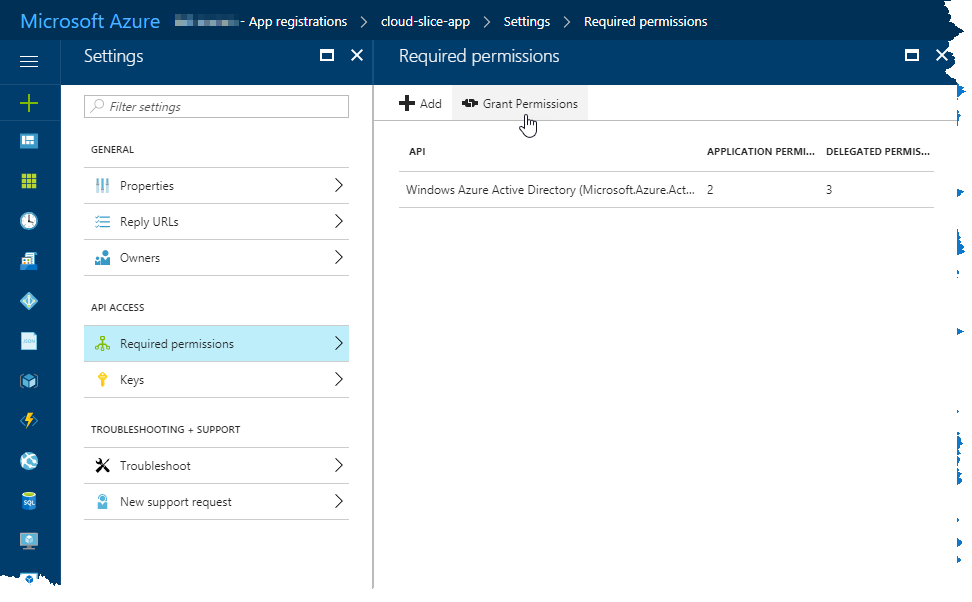
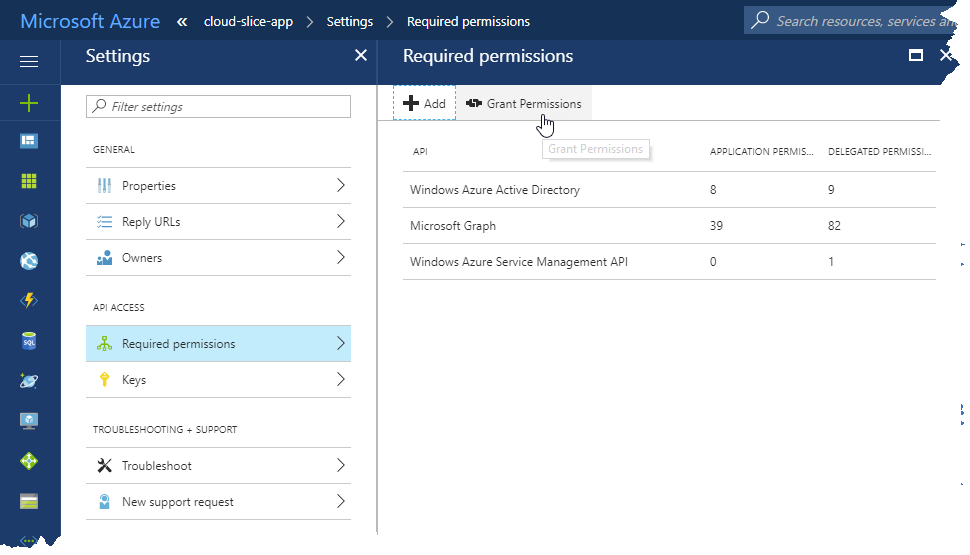
filled gap in permission configuration in azure

diff --git a/cloud-slice/microsoft-azure/cloud-slice-setup.md b/cloud-slice/microsoft-azure/cloud-slice-setup.md
@@ -13,10 +13,13 @@ To enable Cloud Slice support, you must perform the following tasks once in each
 1. [Create a new application registration in Azure Active Directory with a specific set of permissions][create-app-registration].
 2. [Create an API key for the application registration and record subscription authentication details][create-api-key-and-record-authentication-details].
 3. [Add the application registration as an owner to the Azure subscription][add-app-registration-as-owner].
+4. [Assign Company Administrator role to the application registration for cloud slice user management][assign-company-administrator-role].
 
 [create-app-registration]: #create-a-new-application-registration-in-azure-ad "Create a new application registration in Azure AD"
 [create-api-key-and-record-authentication-details]: #create-an-api-key-for-the-application-registration-and-record-authentication-details "Create an API key for the application registration"
 [add-app-registration-as-owner]: #add-the-application-registration-as-owner-to-the-azure-subscription "Add the application registration as owner to the Azure subscription"
+[assign-company-administrator-role]:#assign-company-administrator-role-to-the-application-registration "Assign Company Administrator role to the application registration"
+
 
 ### Create a new application registration in Azure AD
 
@@ -40,25 +43,25 @@ In the Settings blade, click on **Required permissions** to show the Required pe
 
 ![Add required permissions to app registration](images/azure-ad-app-registration-required-permissions.png)
 
-In the Required permissions blade, select **Windows Azure Active Directory** (note: this may be renamed as Microsoft Azure Active Directory in the future). This will display the Enable Access blade. Ensure that the following permissions are checked in the Enable Access blade:
+In the Required permissions blade, select **Windows Azure Active Directory** (note: this may be renamed as Microsoft Azure Active Directory in the future). This will display the Enable Access blade. Ensure that all application and delegated permissions are checked in the Enable Access blade.
 
-| Permission Type             | Permission Name                |
-| --------------------------- | ------------------------------ |
-| **Application Permissions** | Read directory data            |
-|                             | Read and write directory data  |
-| **Delegated Permissions**   | Read all users' full profiles  |
-|                             | Read all users' basic profiles |
-|                             | Sign in and read user profile  |
-
-Once those permissions have been checked, click the **Save** button at the top of the Enable Access blade.
+Once those permissions have been checked, click **Save** at the top of the Enable Access blade.
 
 ![Enable access to Azure Active Directory](images/azure-ad-app-registration-enable-access.png)
 
-Click on the **Grant Permissions** button to grant the new permissions to the application registration. This will result in a confirmation message being displayed in the portal.
+Now click **Add** at the top of the Required permissions blade to add additional permissions. Click **Select an API** and choose the **Microsoft Graph** API.
+
+![Add API access permissions](images/azure-ad-add-api-access-permissions.png)
+
+Then click **Select permissions**, check all application and delegated permissions in the Enable Access blade, and click **Select** to select those permissions.
+
+![Select all Microsoft Graph permissions](images/azure-ad-add-all-microsoft-graph-permissions.png)
+
+Click **Done** to finish adding the Microsoft Graph permissions. Click **Add** and repeat this process to add the single permission included in the Windows Azure Service Management API. Once you have finished adding these permissions your Required permissions blade should look something like this:
 
 ![Grant permissions for app registration](images/azure-ad-app-registration-grant-permissions.png)
 
-Click on **Yes** to grant the permissions to the application registration. You may now close the Required permissions blade.
+Click on the **Grant Permissions** button to grant the new permissions to the application registration. This will result in a confirmation message being displayed in the portal. Click on **Yes** to grant the permissions to the application registration. You may now close the Required permissions blade.
 
 ![Confirm permission grant for app registration](images/azure-ad-app-registration-grant-permissions-yes.png)
 
@@ -85,7 +88,7 @@ Once you have the application registration key created, you need to copy both th
 1. Hover your mouse over the copy glyph that appears at the end of the Application ID and click to copy that value. Paste it in a document or credential management application where you track credentials so that you can access it later. Record this value as the Cloud Subscription Client ID.
 2. Select the text in the value field of the API key and copy it. Paste it into the same document or credential management application where you track credentials so that you can access it later. Record this value as the Cloud Subscription Client Secret.
 
-![Copy your application registration application ID and API key](images/azure-copy-app-registration-id-and-key.png)
+![Copy your application registration application ID, application registration object ID, and API key](images/azure-copy-app-registration-id-and-key.png)
 
 #### Copy the Azure subscription ID
 
@@ -123,6 +126,89 @@ Once you have created the application registration and assigned appropriate dire
 
 [Back to top][back-to-top]
 
+### Assign Company Administrator role to the application registration
+
+ The last step you need to take is to grant the Company Administrator role role to the application registration that you created earlier. This role can only be granted by a global administrator, and it must be granted using Windows PowerShell.
+
+#### Create a global administrator
+
+If you do not yet have a global administrator set up in your subscription, create a new global administrator account by doing the following:
+
+1. Browse into the Azure Active Directory service, and click **Users and Groups**.
+
+2. Click **All users** to show all users in the directory.
+
+3. Click **New user** to create a new user. This will open the New user blade.
+
+   ![Create new user in Azure Active Directory](images/azure-ad-create-new-user.png)
+
+4. In the New User blade, configure the new user account using the information provided below. Then click **Create** to create the user.
+
+   | Field              | Value                                    |
+   | ------------------ | ---------------------------------------- |
+   | **Name**           | Enter "Cloud Slice Admin"                |
+   | **User name**      | Enter "cloudsliceadmin@*domainName*.onmicrosoft.com", replacing *domainName*.onmicrosoft.com with the Cloud Subscription Tenant Name that you recorded earlier. |
+   | **Directory role** | Select **Global administrator**, then click **Ok**. |
+   | **Show Password**  | Check this field, then click the copy button to the right of the field to copy the default password that has been assigned to the new user. Paste this into the document where you have been recording other details, and note that it is the default password for the new Cloud Slice Admin user account. |
+
+   ![Enter new user details into Azure Active Directory](images/azure-ad-create-new-user-properties.png)
+
+#### Grant Company Administrator access to the application registration
+
+Now that you have a global administrator account you can use, you need to use Windows PowerShell to add the Company Administrator role. To accomplish this task, do the following using Windows PowerShell 5.0 or later (Windows PowerShell 5.0 or later are installed by default on Windows 10 and Windows Server 2016 or later):
+
+1. Open Windows PowerShell on your local computer as administrator.
+
+2. Invoke the following command in Windows PowerShell:
+
+   ```powershell
+   Get-InstalledModule -Name AzureAD -ErrorAction Ignore
+   ```
+
+   If that command did not return anything, then you need to install the AzureAD module by invoking this command:
+
+   ```powershell
+   Install-Module -Name AzureAD -AllowClobber
+   ```
+
+   Otherwise, if `Get-InstalledModule` returned the AzureAD module, make sure you have the latest version by invoking this command:
+
+   ```powershell
+   Update-Module -Name AzureAD
+   ```
+
+3. Once the AzureAD module has been installed/updated, invoke the following command to log on to AzureAD using your global administrator:
+
+   ```powershell
+   Connect-AzureAD -TenantDomain tenantDomain.onmicrosoft.com
+   ```
+
+   Note that for this command, you must replace "tenantDomain.onmicrosoft.com" with the Cloud Subscription Tenant Name that you recorded earlier. When you invoke this command, you will be presented with an Azure Active Directory PowerShell login dialog. Enter the username and password for the global administrator account you will use to assign the Company Administrator role to the application registration, and then click **Sign in**.
+
+   ![Azure Active Directory PowerShell Sign-in](images/azure-ad-powershell-signin.png)
+
+   If you created a new global administrator account and you are signing in with that account for the first time, you will be presented with second dialog to update your password. Enter the current password (the one you copied earlier) for your new global administrator account, and then enter a new password twice to change that password. Click **Update password and sign in** once you have finished. This will return you back to your Windows PowerShell prompt.
+
+   ![Update Azure Active Directory user password](images/azure-ad-powershell-change-password.png)
+
+4. Invoke the following command, replacing the string value with the value you recorded earlier as the Cloud Subscription Client Id to store your application registration id in your Windows PowerShell session:
+
+   ```powershell
+   $appRegistrationId = 'b1c1d1e1-ab12-34cd-5e6f-0123456789ab'
+   ```
+
+5. Invoke the following commands to retrieve your application registration object, retrieve the Company Administrator role, and add the Company Administrator role to your application registration.
+
+   ```powershell
+   $appRegistration = Get-AzureADServicePrincipal -All:$true | Where-Object AppId -eq $appRegistrationId
+   $companyAdminRole = Get-AzureADDirectoryRole | Where-Object DisplayName -eq 'Company Administrator'
+   Add-AzureADDirectoryRoleMember -ObjectId $companyAdminRole.ObjectId -RefObjectId $appRegistration.ObjectId
+   ```
+
+If you made it this far, you have successfully added the Company Administrator role to your application registration. Congratulations!
+
+[Back to top][back-to-top]
+
 ## Review Checklist
 
 By now you should have completed the following using one or more Azure subscriptions:
@@ -130,6 +216,7 @@ By now you should have completed the following using one or more Azure subscript
 - Created an application registration in Azure Active Directory.
 - Assigned the required permissions to that application registration.
 - Added the application registration as owner to an Azure subscription.
+- Added the Company Administrator role to the application registration.
 
 You should also have captured the following pieces of information for each Azure subscription you are using for Cloud Slice deployment:
 
